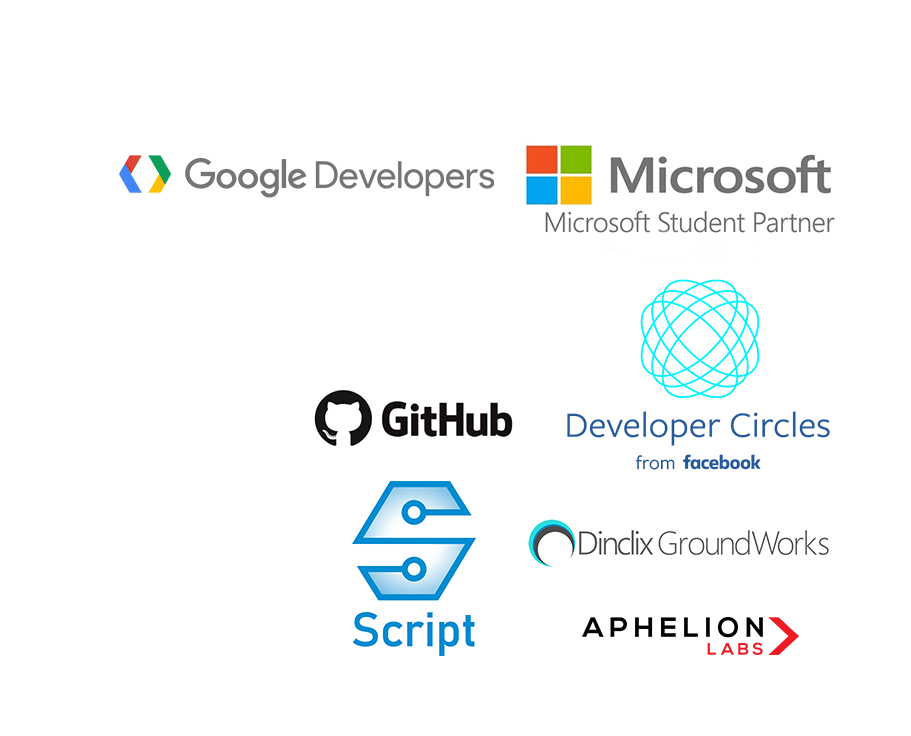
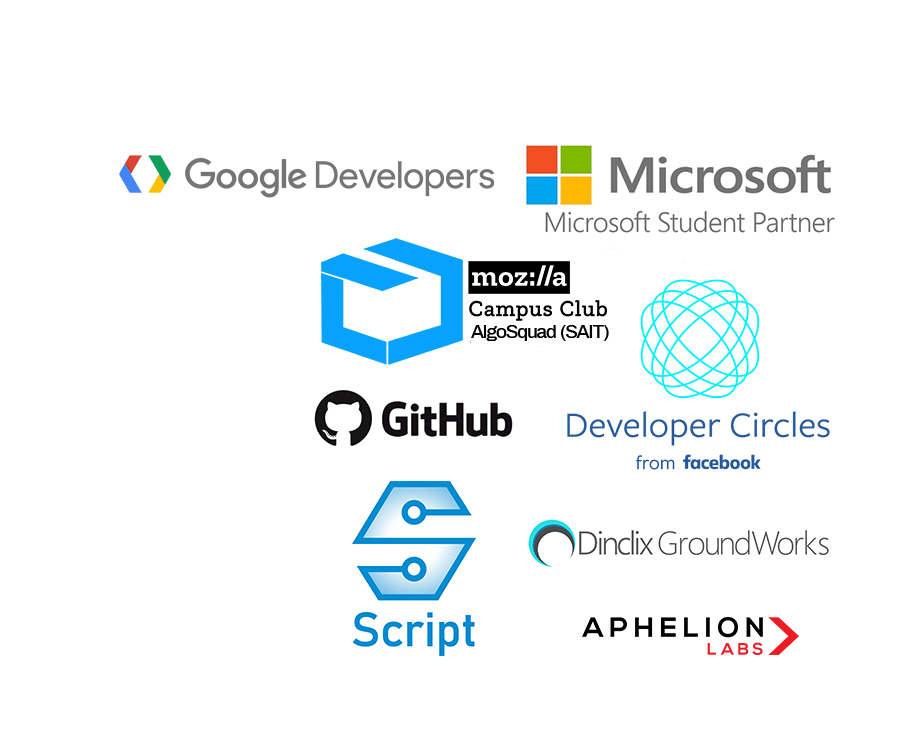
Changed CSS and added Mozilla to campuses
CSS changed to base theme. Mozilla Campus Clubs added to partners.

Changed region(s): [[0.3381, 0.3125, 0.6762, 0.5]]

diff --git a/index.html b/index.html
@@ -40,8 +40,8 @@
 <body>
 	 <div class="preloader"></div><!-- /.preloader -->
 	<div class="alert alert-primary alert-dismissible fade show" role="alert">
-  <p align="center" style="font-size: 11px"><b>Call for papers:</b> Algosquad is accepting research papers on computer science, electronics, electrical, civil, mechanical and communications engineering-related topics that'll be published with our partner publications. For batches 2020-21. <br>
-	  <a href="https://docs.google.com/forms/d/e/1FAIpQLSepUKnmyGA_EPrA4uSHZNS39BBMTJ6b31Oivycdvp7TzgEQ2Q/viewform" target="_blank" class="btn btn-primary">Click here</a>
+  <p align="center" style="font-size: 11px; line-height: 1.5;"><b>Call for papers:</b> Algosquad is accepting research papers on computer science, electronics, electrical, civil, mechanical and communications engineering-related topics that'll be published with our partner publications. For batches 2020-21.</p>
+	  <p align="center"><a href="https://docs.google.com/forms/d/e/1FAIpQLSepUKnmyGA_EPrA4uSHZNS39BBMTJ6b31Oivycdvp7TzgEQ2Q/viewform" target="_blank" class="btn btn-primary">Submit Now</a>
 			<button type="button" class="close" data-dismiss="alert" aria-label="Close"></p>
     <span aria-hidden="true">×</span>
   </button>
@@ -196,7 +196,7 @@
         <section id="team">
         <div class="container">
 
-	<h1 class="heading">Meet the leaders</span></h1>
+	<h1 class="heading">Meet the founders</span></h1>
 
 	<div class="gallery">
 
@@ -240,6 +240,7 @@
             </div><!-- /.container -->
         </section><!-- /.cta-three -->
         <hz></hz>
+	<br><br></br></br>
         <section>
         <footer class="site-footer">
             <div class="site-footer__main-footer">
@@ -283,7 +284,8 @@
             </div><!-- /.site-footer__main-footer -->
             <div class="site-footer__bottom-footer text-center">
                 <div class="container">
-                    <p>&copy; Copyright 2019 <a href="#">AlgoSquad</a></p>
+                    <p>&copy; Copyright 2019-2021 <a href="#">AlgoSquad</a></p>
+					<p style="font-size: 9px; line-height: 1.5;">All product names, logos, and brands are property of their respective owners. All company, product and service names used in this website are for identification purposes only. Use of these names, logos, and brands does not imply endorsement.</p>
                 </div><!-- /.container -->
             </div><!-- /.site-footer__bottom-footer -->
         </footer><!-- /.site-footer -->

diff --git a/css/responsive.css b/css/responsive.css
@@ -164,7 +164,7 @@
     .header-navigation ul.navigation-box li a .sub-nav-toggler {
         background-color: transparent;
         background-image: none;
-        border: 1px solid #ff8257;
+        border: 1px solid #0071BC;
         border-radius: 4px;
         padding: 9px 9px;
         position: absolute;
@@ -181,7 +181,7 @@
     }
 
     .header-navigation .navigation-box .sub-nav-toggler .icon-bar {
-        background-color: #ff8257;
+        background-color: #0071BC;
         border-radius: 1px;
         display: block;
         height: 1px;
@@ -295,7 +295,7 @@
     }
 
     .site-header.header-one .header-navigation .container .menu-toggler {
-        color: #ff8257;
+        color: #0071BC;
     }
 
     .site-header.header-one .header-navigation ul.navigation-box>li {
